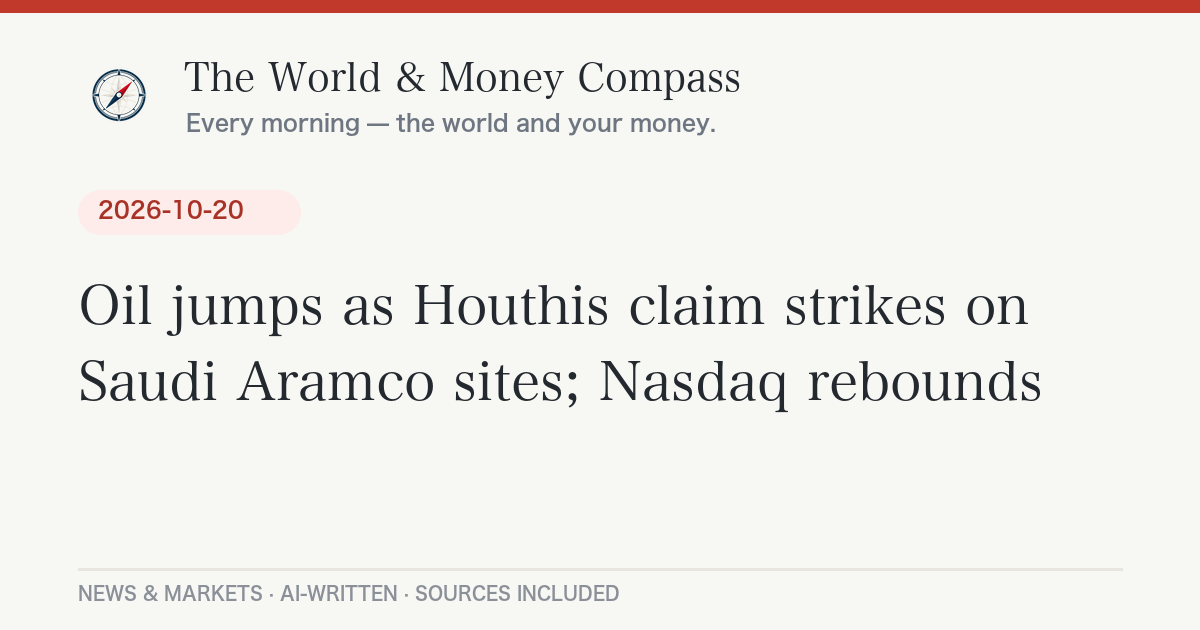
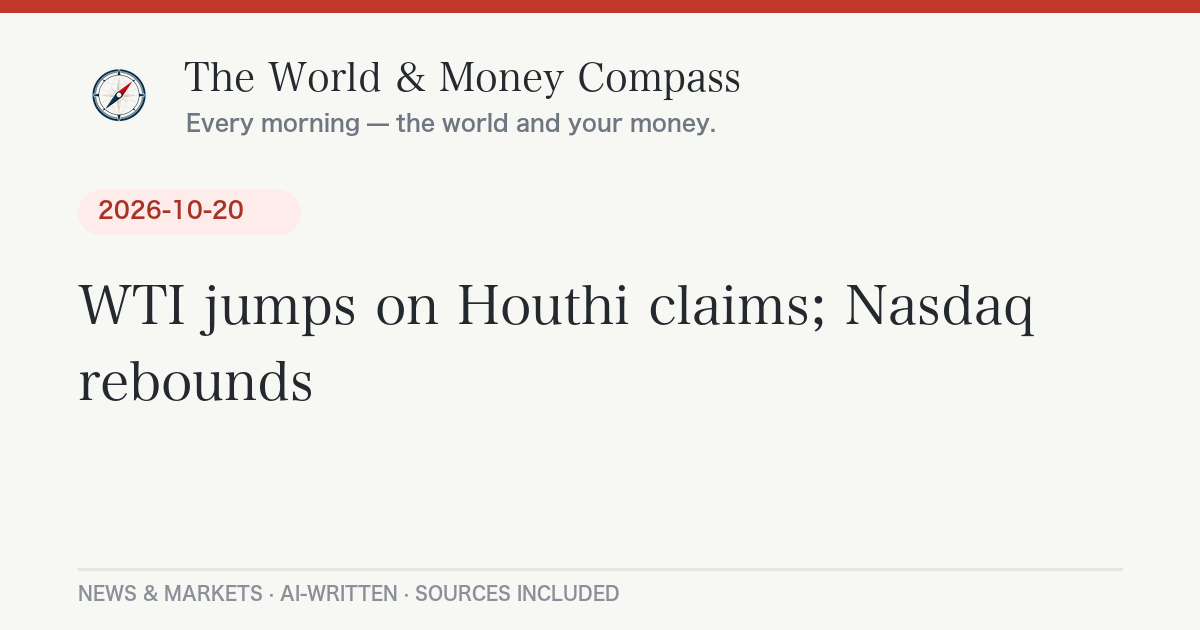
Daily briefing 2026-10-22

Changed region(s): [[0.0617, 0.4524, 0.8633, 0.5429], [0.0617, 0.573, 0.8633, 0.6635]]

diff --git a/_posts/2026-10-22-daily-briefing.md b/_posts/2026-10-22-daily-briefing.md
@@ -1,0 +1,108 @@
+---
+layout: post
+lang: ja
+title: "米国がサウジから政府職員の退避を命令、中東緊迫の中でNY株は上昇｜10月22日のニュースとお金"
+date: 2026-10-22 09:36:31 +0900
+categories: [ニュース, 経済]
+headline: "米国がサウジから政府職員の退避を命令、中東緊迫の中でNY株は上昇"
+permalink: /2026/10/22/daily-briefing/
+---
+
+## 今日のポイント
+
+米国務省が、サウジアラビアにいる緊急性の低い政府職員とその家族に国外退避を命じました。サウジの油田や空港への攻撃が続き、中東の緊張が一段と高まっています。それでもニューヨーク市場では、宇宙・AI関連企業の好決算が買いを呼び、主要3指数がそろって上昇しました。日本ではPHPという広く使われているソフトに重大な欠陥が見つかり、多くのネットサービスが一時停止しました。
+
+## 今日の羅針盤（Compass Insight）
+
+この日の相場は、「中東の不安」と「企業業績の安心感」の綱引きでした。サウジアラビアでの攻撃や米国の職員退避という重いニュースがありながら、株式市場は宇宙企業スペースXの黒字化や、サーバー大手スーパー・マイクロの強気見通しに反応し、AI関連を中心に買われました。市場は「戦争のニュース」よりも「目の前の利益」を重視しているともいえます。ただ、取引の中身を見ると値上がり銘柄と値下がり銘柄の数は拮抗しており、全員が楽観しているわけではありません。
+
+家計への影響で注目したいのは、原油と金利です。北海ブレント原油は1バレル100ドルを大きく上回る水準にとどまり、米国の10年国債利回りは5%台と高い水準です。原油高はガソリン代や電気・ガス代に、米国の高金利は円安を通じて輸入品の値段に響きやすい構図です。ドル円は158円前後で、円安による物価押し上げ圧力は続いています。
+
+もう一つ見逃せないのは、PHPの脆弱性問題です。ネット通販や保育関連のサービスまで一斉に止まったことは、私たちの生活がいかに共通のソフトに支えられているかを示しました。
+
+短期的には、来週の米連邦公開市場委員会（FOMC）と日銀の会合、そして中東情勢の行方に注目です。中長期では、原油高が物価と金利にどこまで波及するか、AI関連企業の業績が高い株価に見合い続けるかが、投資と家計の両面で大きな分かれ目になる可能性があります。
+
+## 今日のニュース
+
+### 日本
+
+- **PHPに重大な脆弱性、国内サービスが一斉停止**：ウェブサイト作りに広く使われるプログラミング言語「PHP」に重大な欠陥2件が見つかり、日本時間21日午後11時ごろに修正版が公開されました。BASE、pixiv、DMM.com、niconico、コドモンなどが[緊急メンテナンスやサービスの一時停止](https://news.yahoo.co.jp/articles/a5d2d59874b769ce9deedc6d2a02cb6bf455dcfe)に踏み切りました。高市首相も[修正プログラムの速やかな適用を呼びかけ](https://news.yahoo.co.jp/articles/e61513c8a4c92ba62277bce38e60c47143ef9854)ています。
+- **高市政権が発足1年、首相が会見**：首相は政権発足1年の節目に官邸で会見し、[物価高対策など今後の取り組み](https://www.kantei.go.jp/jp/105/statement/2026/1021kaiken.html)を語りました。
+- **日経平均は3日ぶり反発**：21日の東京株式市場で日経平均は[前日比545円82銭高の6万4621円24銭](https://news.yahoo.co.jp/articles/4a8f984d5bd432da1e599111f70271d1ac97dcfc)で取引を終えました。
+- **台風30号（チャンパー）に警戒**：非常に強い勢力の台風30号は、週後半に沖縄の南へ進む見込みで、[先島諸島では荒天への警戒](https://weathernews.jp/news/202610/190071/)が呼びかけられています。最新の進路は気象庁の発表で確認を。
+
+### 世界
+
+- **米国がサウジから政府職員の退避を命令**：米国務省は、サウジアラビアにいる緊急性の低い政府職員と家族の[国外退避を命じました](https://www.cnn.com/2026/10/21/politics/us-orders-departure-embassy-staff-saudi-arabia)。サウジのシャイバ油田を狙った無人機の残骸で[2人が死亡](https://www.cbsnews.com/news/us-saudi-arabia-ordered-departure-houthis/)したと伝えられています。
+- **イラン・シリクで爆発**：イランのメディアが南部シリクでの爆発を伝え、その後の報道では[米軍の攻撃によるもの](https://www.jpost.com/middle-east/iran-news/2026-10-21/live-updates-912356)とされています。
+- **ガザで空爆続く**：イスラエル軍の攻撃で20日に[少なくとも7人のパレスチナ人が死亡](https://www.democracynow.org/2026/10/21/headlines)したと報じられています。
+
+### アメリカ
+
+- **プーチン氏、米特使と会談**：ウィトコフ米特使がサンクトペテルブルクでプーチン大統領と会談し、[ウクライナ和平に向けた新たな提案](https://edition.cnn.com/2026/10/21/europe/us-envoy-witkoff-putin-talks-russia-ukraine-intl)を示しました。ロシアは拘束していた74歳の米国人を[解放](https://www.axios.com/2026/10/21/russia-ukraine-putin-witkoff-peace)しました。
+- **トランプ氏「オマル議員は刑務所行きも」**：トランプ大統領は、自宅を連邦捜査官に捜索されたイルハン・オマル下院議員について、[「刑務所に行く可能性がある」](https://www.democracynow.org/2026/10/21/headlines)と述べました。
+- **ネットフリックスが急落**：広告収入の年間見通しを30億ドルから[27億ドルに引き下げ](https://www.fool.com/coverage/stock-market-today/2026/10/21/stock-market-today-oct-21-netflix-cuts-ad-revenue-guidance-stock-slides-5/)、株価は5%超下落しました。
+
+### ヨーロッパ
+
+- **英国の物価上昇率が3.5%に加速**：9月の消費者物価指数は前年同月比[3.5%上昇（8月は3.1%）](https://www.ons.gov.uk/economy/inflationandpriceindices/bulletins/consumerpriceinflation/september2026)で、ガソリンなど燃料価格の上昇が主因です。
+- **フランス・イタリアで抗議デモ**：フランスは週末の全国デモに備えて警察を増強し、イタリアは生活費高騰への抗議が続くミラノに[兵士500人を追加派遣](https://www.democracynow.org/2026/10/21/headlines)すると決めました。
+
+## 経済とお金の動き
+
+### 世界の経済と原油・相場
+
+| 指標 | 水準 | 前日比 |
+|---|---|---|
+| 日経平均株価（10/21終値） | [64,621.24円](https://news.yahoo.co.jp/articles/4a8f984d5bd432da1e599111f70271d1ac97dcfc) | <span class="chg-up">+545.82円（+0.85%）</span> |
+| NYダウ（10/21終値） | [52,856.09ドル](https://www.investing.com/news/stock-market-news/us-stocks-higher-at-close-of-trade-dow-jones-industrial-average-up-069-4964039) | <span class="chg-up">+360.21ドル（+0.69%）</span> |
+| S&P500（10/21終値） | [7,757台](https://www.investing.com/news/stock-market-news/us-stocks-higher-at-close-of-trade-dow-jones-industrial-average-up-069-4964039) | <span class="chg-up">+0.59%</span> |
+| ナスダック総合（10/21終値） | [26,702.86](https://www.investing.com/news/stock-market-news/us-stocks-higher-at-close-of-trade-dow-jones-industrial-average-up-069-4964039) | <span class="chg-up">+278.04（+1.05%）</span> |
+| ドル円（10/21 ECB参照レート） | [157.88円](https://api.frankfurter.app/latest?from=USD&to=JPY) | NY終盤は[158円台前半](https://www.investing.com/news/stock-market-news/us-stocks-higher-at-close-of-trade-dow-jones-industrial-average-up-069-4964039) |
+| WTI原油（12月物） | [97ドル台](https://www.investing.com/news/stock-market-news/us-stocks-higher-at-close-of-trade-dow-jones-industrial-average-up-069-4964039) | 高止まり（報道により小幅高〜小幅安） |
+| 北海ブレント原油（12月物） | [108〜109ドル台](https://cappnotes.substack.com/p/closing-look-wednesday-october-21) | 一時110ドル超え |
+
+原油は、ホルムズ海峡周辺やサウジでの攻撃が続くなか、[ブレントが一時110ドルを超える](https://oilprice.com/Latest-Energy-News/World-News/Brent-Tops-110-as-Tanker-Attacks-Threaten-Persian-Gulf-Supply.html)場面がありました。供給そのものは代替ルートで回復しつつあるものの、「いつ止まってもおかしくない」という不安が価格を押し上げ続けています。原油が100ドル前後に張り付く状態は、世界の物価を下がりにくくする要因です。
+
+### アメリカの経済
+
+米国株は、AI・半導体関連が相場を引っ張りました。半導体株指数（SOX）は[約2%上昇](https://cappnotes.substack.com/p/closing-look-wednesday-october-21)し、S&P500は最高値まで1%足らずの水準に戻っています。一方で米10年国債利回りは[5.1%台](https://www.investing.com/news/stock-market-news/us-stocks-higher-at-close-of-trade-dow-jones-industrial-average-up-069-4964039)と高く、借金の負担が重い企業や住宅市場には逆風です。米連邦準備制度理事会（FRB）は9月に政策金利を[3.75〜4.00%へ引き上げ](https://admiralmarkets.com/analytics/traders-blog/fomc-minutes-october-2026)ており、次回のFOMCは[10月27〜28日](https://fedratecalc.com/fomc-meeting-schedule/october-2026/)です。原油高による物価上昇がどこまで続くかで、追加利上げの判断が左右されそうです。
+
+### 日本の経済
+
+日経平均は、前日のニューヨーク株高を受けて一時[1,300円を超えて上昇](https://news.livedoor.com/topics/detail/32621221/)しましたが、午後は伸び悩みました。前日まで売られていたAI・半導体関連に買い戻しが入った形で、相場の土台が固まったとまではいえません。ドル円は158円前後で推移しており、原油高と円安が重なる状況は、ガソリン代や電気・ガス代を通じて家計を圧迫しやすい状態が続いています。来週は日銀の金融政策決定会合も控えており、円相場の行方に注目が集まります。
+
+## 今日の注目銘柄・セクター
+
+- **ネットフリックス**：広告収入の年間見通しを27億ドルに下方修正し、株価は[5.31%安の65ドル台](https://www.fool.com/coverage/stock-market-today/2026/10/21/stock-market-today-oct-21-netflix-cuts-ad-revenue-guidance-stock-slides-5/)で終わりました。短い動画に視聴時間を奪われているという構造的な課題が意識されています。
+- **スペースX・スーパー・マイクロ**：スペースXは7〜9月期に[上場後初の黒字（純利益44億ドル）](https://finance.yahoo.com/markets/stocks/articles/spacex-q3-earnings-ai-now-073738092.html)を計上して約7.8%高、スーパー・マイクロは売上見通しの引き上げで[約9.6%高](https://cappnotes.substack.com/p/closing-look-wednesday-october-21)となり、AI・宇宙関連の買いを主導しました。
+- **通信株（AT&Tなど）**：衛星通信企業が携帯電話事業に参入するとの懸念から、AT&Tは決算が予想を上回ったにもかかわらず[6.45%下落](https://cappnotes.substack.com/p/closing-look-wednesday-october-21)し、通信サービスはこの日最も弱い業種となりました。
+- **メタ（時間外）**：取引終了後に発表した決算で売上高と見通しが好感され、時間外取引で[約3%上昇](https://cappnotes.substack.com/p/closing-look-wednesday-october-21)しました。
+
+*※特定銘柄の売買を推奨するものではありません。投資判断はご自身の責任で。*
+
+## まとめ：注目の3つ
+
+1. **中東の緊張**：米国のサウジ職員退避、サウジ・イランでの攻撃。原油が100ドル前後に張り付くかどうか。
+2. **来週の日米金融政策**：FOMC（27〜28日）と日銀の会合。金利と円相場がガソリン・住宅ローンに直結します。
+3. **PHP問題の後始末**：止まったサービスの復旧状況と、修正の行き届かないサイトへの攻撃に注意。
+
+---
+<div class="post-sources" markdown="1">
+
+**出典：**
+- [CNN・US orders departure of some embassy staff and families from Saudi Arabia](https://www.cnn.com/2026/10/21/politics/us-orders-departure-embassy-staff-saudi-arabia)
+- [CBS News・U.S. ordering some government staff to depart Saudi Arabia](https://www.cbsnews.com/news/us-saudi-arabia-ordered-departure-houthis/)
+- [Jerusalem Post・Live updates Oct 21](https://www.jpost.com/middle-east/iran-news/2026-10-21/live-updates-912356)
+- [CNN・US envoy Witkoff meets with Putin](https://edition.cnn.com/2026/10/21/europe/us-envoy-witkoff-putin-talks-russia-ukraine-intl)
+- [Impress Watch（Yahoo!ニュース）・PHP脆弱性で国内大手サービスが緊急メンテ](https://news.yahoo.co.jp/articles/a5d2d59874b769ce9deedc6d2a02cb6bf455dcfe)
+- [首相官邸・総理就任1年の節目を迎えての会見](https://www.kantei.go.jp/jp/105/statement/2026/1021kaiken.html)
+- [共同通信（Yahoo!ニュース）・東証終値545円高](https://news.yahoo.co.jp/articles/4a8f984d5bd432da1e599111f70271d1ac97dcfc)
+- [ONS・Consumer price inflation, UK: September 2026](https://www.ons.gov.uk/economy/inflationandpriceindices/bulletins/consumerpriceinflation/september2026)
+- [Investing.com・U.S. stocks higher at close of trade](https://www.investing.com/news/stock-market-news/us-stocks-higher-at-close-of-trade-dow-jones-industrial-average-up-069-4964039)
+- [Motley Fool・Netflix Cuts Ad Revenue Guidance](https://www.fool.com/coverage/stock-market-today/2026/10/21/stock-market-today-oct-21-netflix-cuts-ad-revenue-guidance-stock-slides-5/)
+- 市場データ: [frankfurter API](https://api.frankfurter.app/) ／ Yahoo Finance ほか
+
+*本記事は公開情報をもとに作成しています。*
+
+</div>

diff --git a/_posts/2026-10-22-daily-briefing-en.md b/_posts/2026-10-22-daily-briefing-en.md
@@ -1,0 +1,55 @@
+---
+layout: post
+lang: en
+title: "U.S. orders staff out of Saudi Arabia as stocks climb on AI earnings — October 22, 2026"
+date: 2026-10-22 09:36:31 +0900
+headline: "U.S. orders staff out of Saudi Arabia as stocks climb on AI earnings"
+permalink: /2026/10/22/daily-briefing/
+---
+
+## Top U.S. Stories
+
+- **State Department orders departure from Saudi Arabia.** Non-emergency U.S. government employees and their families in Saudi Arabia were [ordered to leave](https://www.cnn.com/2026/10/21/politics/us-orders-departure-embassy-staff-saudi-arabia) amid attacks blamed on the Houthis. Debris from a drone aimed at the Shaybah oil field [killed two people](https://www.cbsnews.com/news/us-saudi-arabia-ordered-departure-houthis/).
+  *Why it matters:* It signals Washington sees real risk to Gulf energy infrastructure, which keeps a floor under oil prices.
+- **Witkoff meets Putin in St. Petersburg.** The U.S. envoy presented an [updated proposal to end the war in Ukraine](https://edition.cnn.com/2026/10/21/europe/us-envoy-witkoff-putin-talks-russia-ukraine-intl), and Russia [released American prisoner Stephen Hubbard](https://www.axios.com/2026/10/21/russia-ukraine-putin-witkoff-peace). No breakthrough was announced.
+- **Stocks rise on AI and space earnings.** The Dow gained [360.21 points to 52,856.09](https://www.investing.com/news/stock-market-news/us-stocks-higher-at-close-of-trade-dow-jones-industrial-average-up-069-4964039), with the Nasdaq up 1.05%.
+  *Why it matters:* Investors are still rewarding earnings over geopolitical fear, but breadth was thin.
+- **Netflix slides on ad guidance cut.** Netflix lowered its full-year ad revenue outlook to $2.7 billion from $3 billion and [fell 5.31%](https://www.fool.com/coverage/stock-market-today/2026/10/21/stock-market-today-oct-21-netflix-cuts-ad-revenue-guidance-stock-slides-5/).
+- **Trump says Rep. Ilhan Omar "could go to jail."** The remark came [days after federal agents raided her home](https://www.democracynow.org/2026/10/21/headlines).
+
+## Compass Insight
+
+Wednesday was a tug-of-war between fear and profits. Washington pulling staff out of Saudi Arabia is not a small step, yet equities shrugged it off as SpaceX posted its first profit as a public company and Super Micro raised its outlook. The message: as long as AI earnings deliver, markets will look past the Gulf. That confidence has limits. Brent is stuck above $100, the 10-year Treasury yield sits above 5%, and advancing and declining stocks were nearly even. In the short term, watch next week's FOMC meeting and any escalation around Saudi oil sites. Over the longer run, the key question is whether sticky energy prices push the Fed toward more hikes, which would test today's lofty tech valuations.
+
+## Markets
+
+- **Dow:** [52,856.09, +0.69%](https://www.investing.com/news/stock-market-news/us-stocks-higher-at-close-of-trade-dow-jones-industrial-average-up-069-4964039); **S&P 500:** about 7,757, +0.59%; **Nasdaq:** 26,702.86, +1.05%
+- **Semiconductors:** The SOX index rose [about 2%](https://cappnotes.substack.com/p/closing-look-wednesday-october-21); the S&P 500 is within 1% of its record.
+- **Oil:** Brent briefly [topped $110](https://oilprice.com/Latest-Energy-News/World-News/Brent-Tops-110-as-Tanker-Attacks-Threaten-Persian-Gulf-Supply.html) before settling in the $108–109 range; WTI December was in the $97 range.
+- **Rates & FX:** The 10-year yield was around [5.1%](https://www.investing.com/news/stock-market-news/us-stocks-higher-at-close-of-trade-dow-jones-industrial-average-up-069-4964039); USD/JPY was [157.88](https://api.frankfurter.app/latest?from=USD&to=JPY) (ECB reference, Oct 21).
+- **Tokyo:** The Nikkei rose [545.82 yen to 64,621.24](https://news.yahoo.co.jp/articles/4a8f984d5bd432da1e599111f70271d1ac97dcfc).
+- **Next up:** The FOMC meets [October 27–28](https://fedratecalc.com/fomc-meeting-schedule/october-2026/).
+
+## Stocks in Focus
+
+- **Super Micro (+9.55%) and SpaceX (+7.79%)** led the AI and space rally on a [raised outlook and a first profit](https://cappnotes.substack.com/p/closing-look-wednesday-october-21).
+- **AT&T (-6.45%)** fell despite beating estimates, on fears a satellite provider could enter wireless.
+- SpaceX reported [Q3 net income of $4.4 billion](https://finance.yahoo.com/markets/stocks/articles/spacex-q3-earnings-ai-now-073738092.html) on revenue up 161%.
+- **Meta** rose about 3% after hours on strong revenue and guidance.
+
+<div class="post-sources" markdown="1">
+
+**Sources:**
+- [CNN — US orders departure of embassy staff from Saudi Arabia](https://www.cnn.com/2026/10/21/politics/us-orders-departure-embassy-staff-saudi-arabia)
+- [CBS News — U.S. ordering some government staff to depart Saudi Arabia](https://www.cbsnews.com/news/us-saudi-arabia-ordered-departure-houthis/)
+- [CNN — Witkoff meets with Putin](https://edition.cnn.com/2026/10/21/europe/us-envoy-witkoff-putin-talks-russia-ukraine-intl)
+- [Axios — Putin tells Witkoff he is ready to resume talks](https://www.axios.com/2026/10/21/russia-ukraine-putin-witkoff-peace)
+- [Investing.com — U.S. stocks higher at close of trade](https://www.investing.com/news/stock-market-news/us-stocks-higher-at-close-of-trade-dow-jones-industrial-average-up-069-4964039)
+- [Motley Fool — Netflix cuts ad revenue guidance](https://www.fool.com/coverage/stock-market-today/2026/10/21/stock-market-today-oct-21-netflix-cuts-ad-revenue-guidance-stock-slides-5/)
+- [Capp Notes — Closing Look, Oct 21](https://cappnotes.substack.com/p/closing-look-wednesday-october-21)
+- [Democracy Now! — Headlines for October 21, 2026](https://www.democracynow.org/2026/10/21/headlines)
+- Market data: [frankfurter API](https://api.frankfurter.app/) / Yahoo Finance
+
+</div>
+
+*Auto-generated and AI-written. Not investment advice.*
